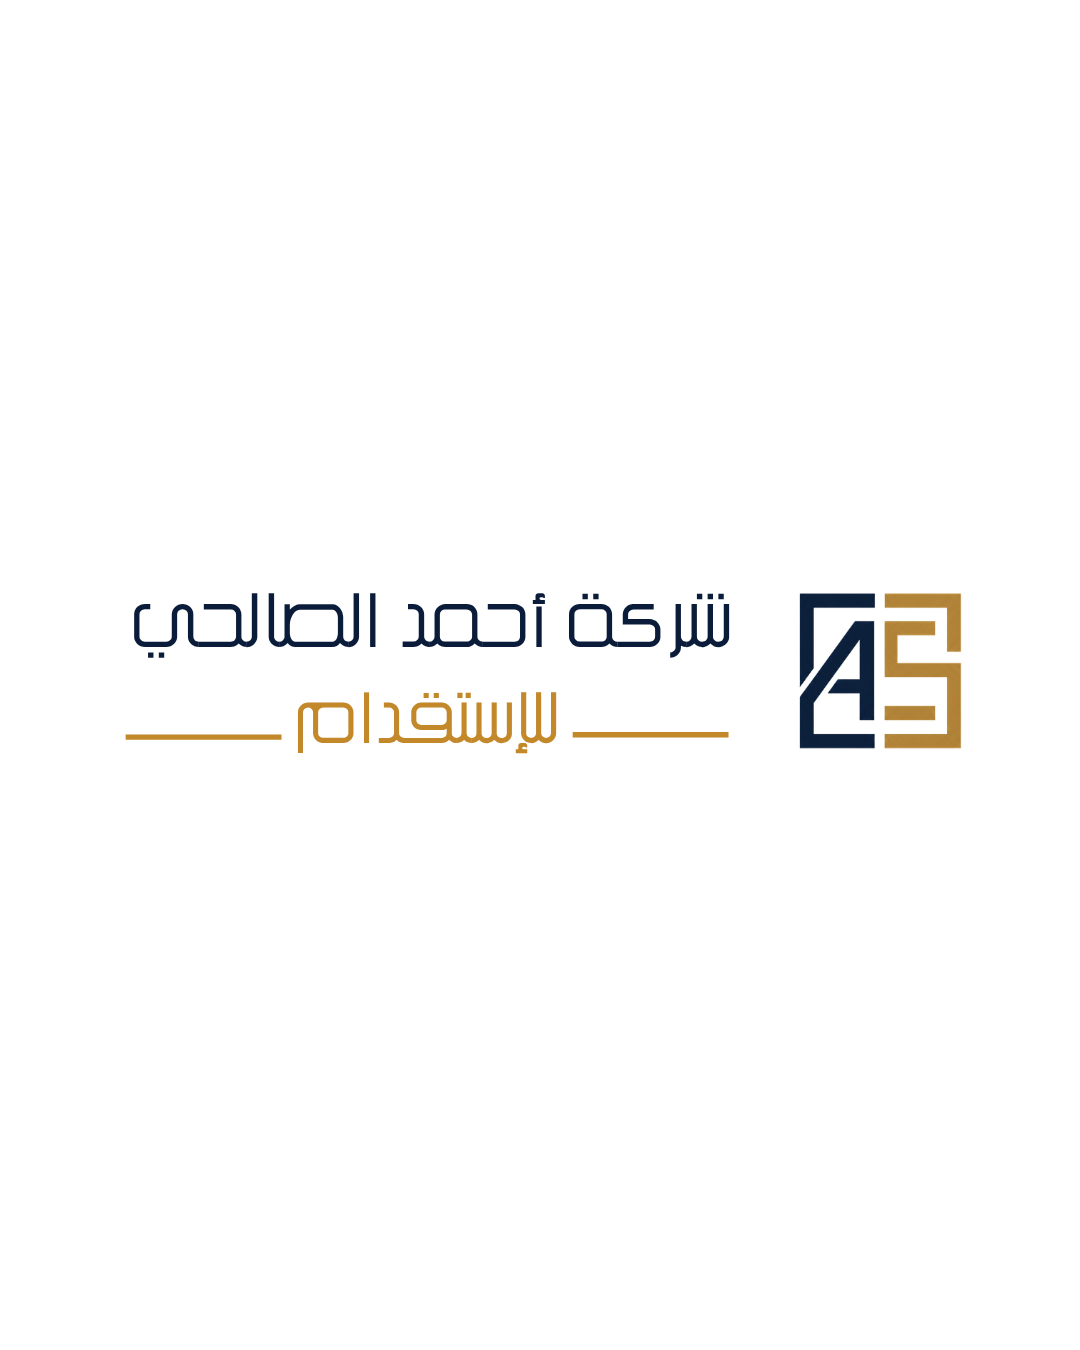
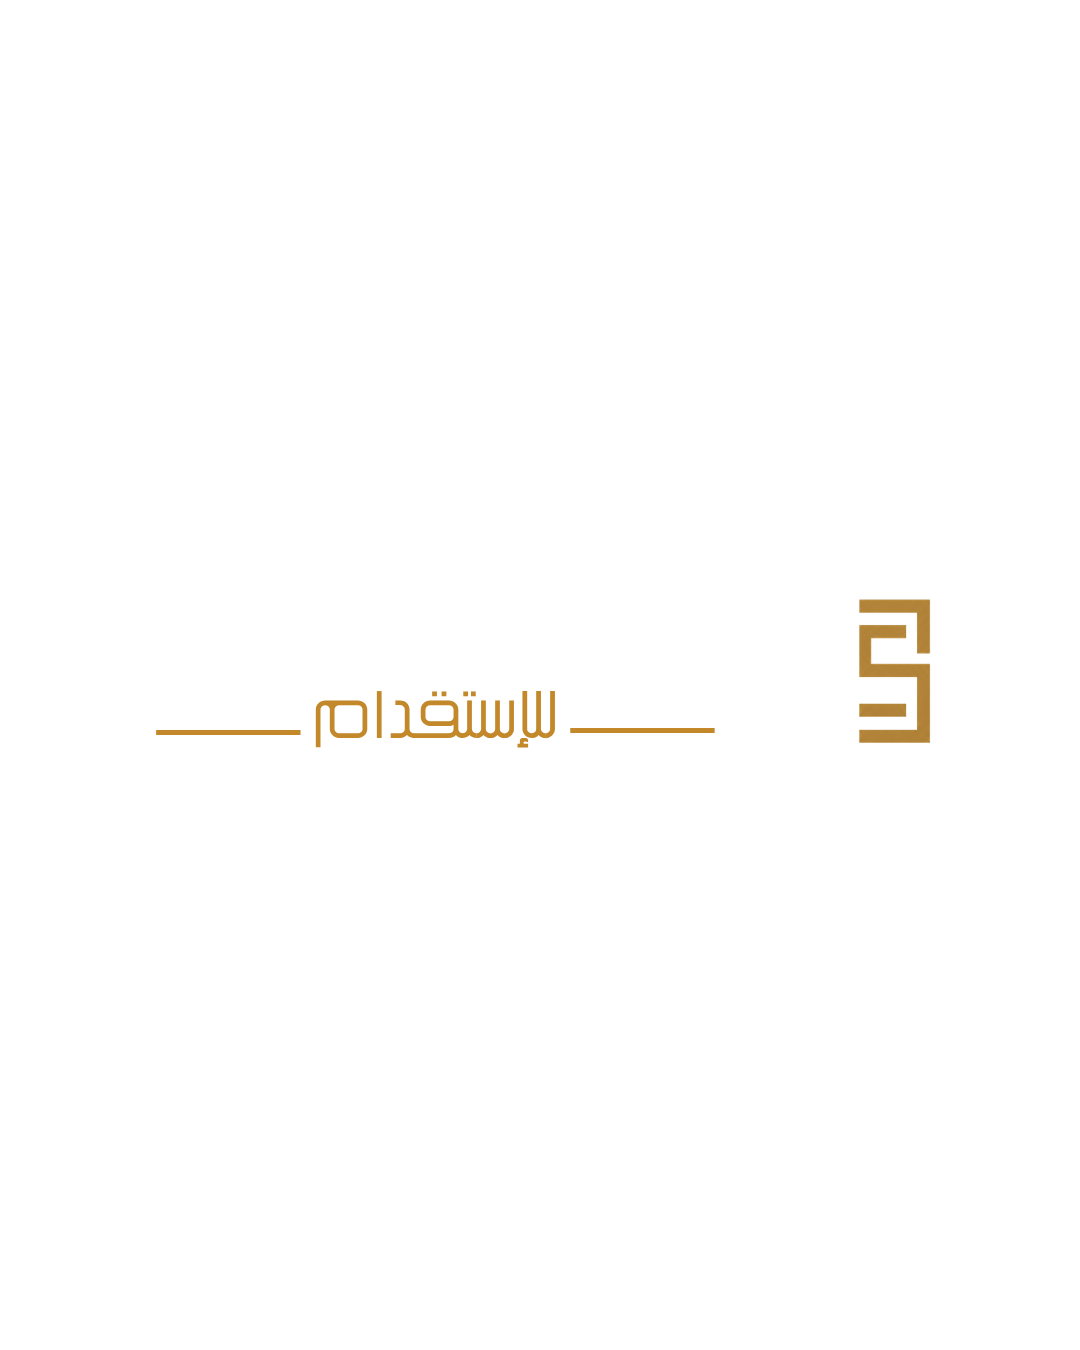
first commit

Changed region(s): [[0.1222, 0.4356, 0.6722, 0.56], [0.7333, 0.4356, 0.9167, 0.56]]

diff --git a/resources/views/admin/socialacc.blade.php b/resources/views/admin/socialacc.blade.php
@@ -70,8 +70,17 @@
                         <div class="col-12 col-sm-12 col-md-12 col-lg-6">
                             <div class="">
                                 <div class="d-flex flex-column gap-4c">
-                                    <label class="fs-12 fw-400-20px text-1 text_cap">يوتيوب</label>
+                                    <label class="fs-12 fw-400-20px text-1 text_cap">لينكدإن</label>
                                     <input type="text" class="form-control fw-400-24px gray-text-2 pad-8-16" name="linkedIn" value="{{ $data->linkedIn }}"
+                                        placeholder="">
+                                </div>
+                            </div>
+                        </div>
+                        <div class="col-12 col-sm-12 col-md-12 col-lg-6">
+                            <div class="">
+                                <div class="d-flex flex-column gap-4c">
+                                    <label class="fs-12 fw-400-20px text-1 text_cap">يوتيوب</label>
+                                    <input type="text" class="form-control fw-400-24px gray-text-2 pad-8-16" name="youtube" value="{{ $data->youtube }}"
                                         placeholder="">
                                 </div>
                             </div>
@@ -89,18 +98,8 @@
                         <div class="col-12 col-sm-12 col-md-12 col-lg-6">
                             <div class="">
                                 <div class="d-flex flex-column gap-4c">
-                                    <label class="fs-12 fw-400-20px text-1 text_cap">لينكدان</label>
-                                    <input type="text" class="form-control fw-400-24px gray-text-2 pad-8-16" name="facebook" value="{{ $data->facebook }}"
-                                        placeholder="">
-                                </div>
-
-                            </div>
-                        </div>
-                        <div class="col-12 col-sm-12 col-md-12 col-lg-6">
-                            <div class="">
-                                <div class="d-flex flex-column gap-4c">
                                     <label class="fs-12 fw-400-20px text-1 text_cap">فيسبوك</label>
-                                    <input type="text" class="form-control fw-400-24px gray-text-2 pad-8-16" name="whatsapp" value="{{ $data->whatsapp }}"
+                                    <input type="text" class="form-control fw-400-24px gray-text-2 pad-8-16" name="facebook" value="{{ $data->facebook }}"
                                         placeholder="">
                                 </div>
                             </div>
@@ -119,6 +118,15 @@
                                 <div class="d-flex flex-column gap-4c">
                                     <label class="fs-12 fw-400-20px text-1 text_cap">تيك توك</label>
                                     <input type="text" class="form-control fw-400-24px gray-text-2 pad-8-16" name="tiktok" value="{{ $data->tiktok }}"
+                                        placeholder="">
+                                </div>
+                            </div>
+                        </div>
+                        <div class="col-12 col-sm-12 col-md-12 col-lg-6">
+                            <div class="">
+                                <div class="d-flex flex-column gap-4c">
+                                    <label class="fs-12 fw-400-20px text-1 text_cap">سناب شات</label>
+                                    <input type="text" class="form-control fw-400-24px gray-text-2 pad-8-16" name="snapchat" value="{{ $data->snapchat }}"
                                         placeholder="">
                                 </div>
                             </div>

diff --git a/resources/views/include/footer.blade.php b/resources/views/include/footer.blade.php
@@ -142,13 +142,20 @@
                                 @if($socail->facebook)
                                 <li>
                                     <a href="{{ $socail->facebook }}" class="text-decoration-none" style="background-color:#0a1c3a; color:#fff; display:flex; align-items:center; justify-content:center; width:30px; height:30px;" target="_blank">
-                                        <ion-icon name="logo-linkedin" style="font-size:18px;"></ion-icon>
+                                        <i class="fa-brands fa-facebook" style="font-size:18px;"></i>
                                     </a>
                                 </li>
                                 @endif
                                 @if($socail->linkedIn)
                                 <li>
                                     <a href="{{ $socail->linkedIn }}" class="text-decoration-none" style="background-color:#0a1c3a; color:#fff; display:flex; align-items:center; justify-content:center; width:30px; height:30px;" target="_blank">
+                                        <ion-icon name="logo-linkedin" style="font-size:18px;"></ion-icon>
+                                    </a>
+                                </li>
+                                @endif
+                                @if($socail->youtube)
+                                <li>
+                                    <a href="{{ $socail->youtube }}" class="text-decoration-none" style="background-color:#0a1c3a; color:#fff; display:flex; align-items:center; justify-content:center; width:30px; height:30px;" target="_blank">
                                         <ion-icon name="logo-youtube" style="font-size:18px;"></ion-icon>
                                     </a>
                                 </li>
@@ -157,13 +164,6 @@
                                 <li>
                                     <a href="{{ $socail->instagram }}" class="text-decoration-none" style="background-color:#0a1c3a; color:#fff; display:flex; align-items:center; justify-content:center; width:30px; height:30px;" target="_blank">
                                         <ion-icon name="logo-instagram" style="font-size:18px;"></ion-icon>
-                                    </a>
-                                </li>
-                                @endif
-                                @if($socail->whatsapp)
-                                <li>
-                                    <a href="{{ $socail->whatsapp }}" class="text-decoration-none" style="background-color:#0a1c3a; color:#fff; display:flex; align-items:center; justify-content:center; width:30px; height:30px;" target="_blank">
-                                        <i class="fa-brands fa-facebook" style="font-size:18px;"></i>
                                     </a>
                                 </li>
                                 @endif
@@ -178,6 +178,13 @@
                                 <li>
                                     <a href="{{ $socail->tiktok }}" class="text-decoration-none" style="background-color:#0a1c3a; color:#fff; display:flex; align-items:center; justify-content:center; width:30px; height:30px;" target="_blank">
                                         <i class="fa-brands fa-tiktok" style="font-size:18px;"></i>
+                                    </a>
+                                </li>
+                                @endif
+                                @if($socail->snapchat)
+                                <li>
+                                    <a href="{{ $socail->snapchat }}" class="text-decoration-none" style="background-color:#0a1c3a; color:#fff; display:flex; align-items:center; justify-content:center; width:30px; height:30px;" target="_blank">
+                                        <i class="fa-brands fa-snapchat" style="font-size:18px;"></i>
                                     </a>
                                 </li>
                                 @endif

diff --git a/app/Http/Controllers/SocialController.php b/app/Http/Controllers/SocialController.php
@@ -24,12 +24,13 @@ class SocialController extends Controller
                 }
                 $data->update([
                     'linkedIn' => $request->linkedIn,
+                    'youtube' => $request->youtube,
                     'twitter' => $request->twitter,
                     'facebook' => $request->facebook,
                     'instagram' => $request->instagram,
-                    'whatsapp' => $request->whatsapp,
                     'tiktok' => $request->tiktok,
                     'whatsapp_url' => $request->whatsapp_url,
+                    'snapchat' => $request->snapchat,
                     'addedBy' => Auth::user()->id,
                 ]);
                 return redirect()->back()->with('success',' تم تحديث حساب Social بنجاح');

diff --git a/app/Models/Social.php b/app/Models/Social.php
@@ -13,11 +13,12 @@ class Social extends Model
     protected $fillable = [
         'addedBy',
         'linkedIn',
+        'youtube',
         'twitter',
         'facebook',
         'instagram',
-        'whatsapp',
         'tiktok',
         'whatsapp_url',
+        'snapchat',
     ];
 }